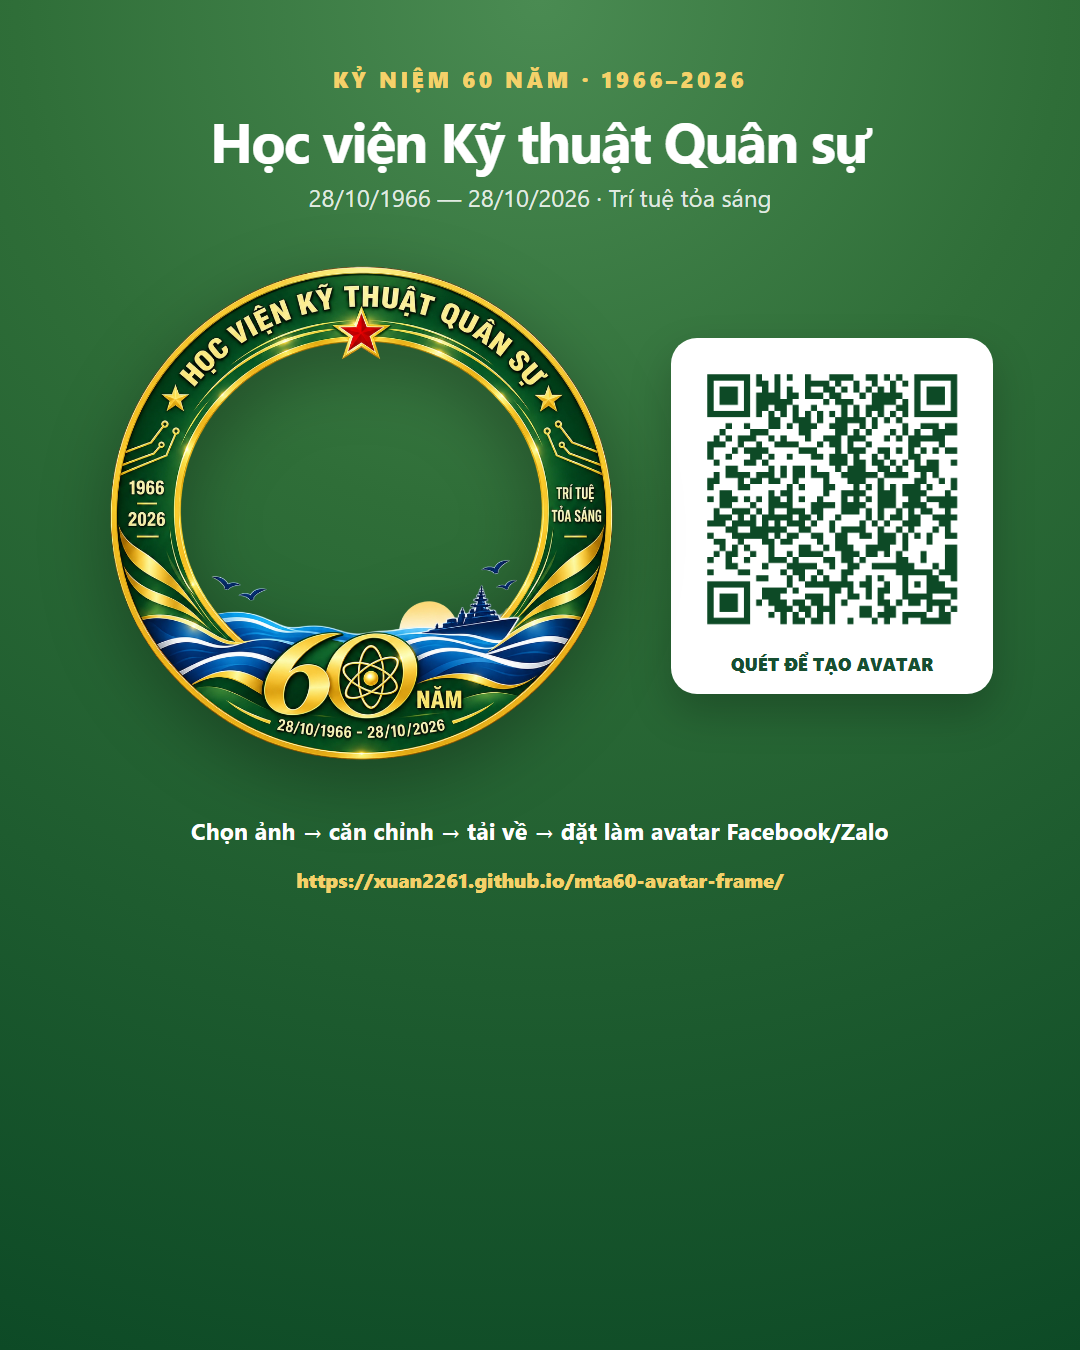
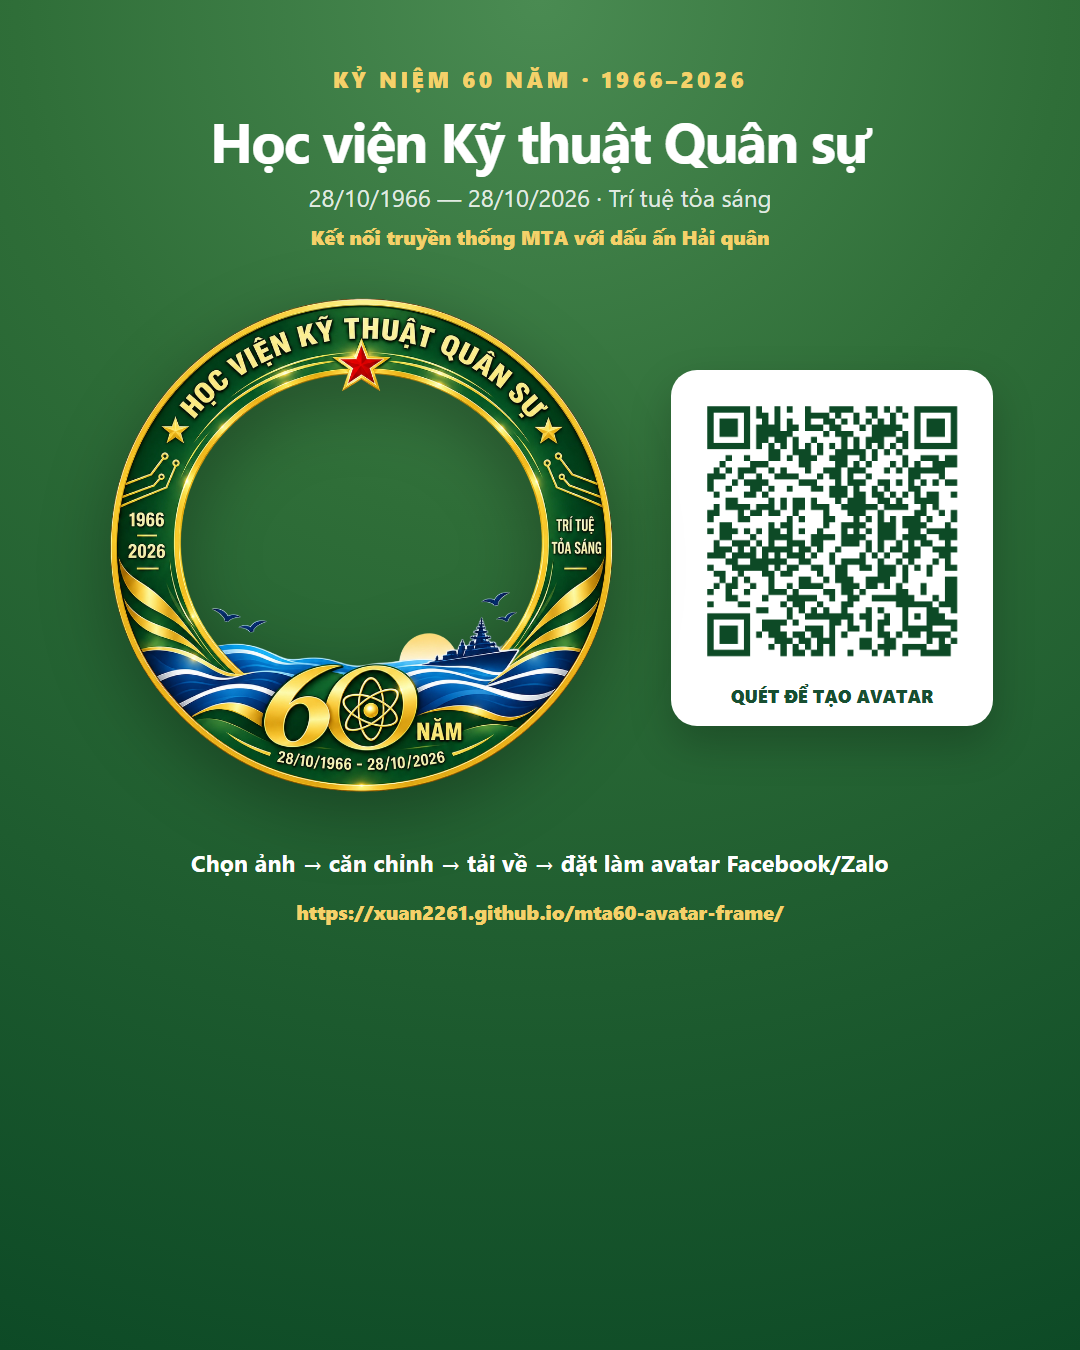
Harden social sharing for v1.2 stable

Changed region(s): [[0.0917, 0.1556, 0.825, 0.6844], [0.6111, 0.2489, 0.9167, 0.56]]

diff --git a/index.html b/index.html
@@ -13,7 +13,8 @@
 <meta property="og:url" content="https://xuan2261.github.io/mta60-avatar-frame/" />
 <meta property="og:site_name" content="Khung ảnh MTA 60 năm" />
 <meta property="og:locale" content="vi_VN" />
-<meta property="og:image" content="https://xuan2261.github.io/mta60-avatar-frame/og-image-v1.png" />
+<meta property="og:image" content="https://xuan2261.github.io/mta60-avatar-frame/og-image-v2.png" />
+<meta property="og:image:secure_url" content="https://xuan2261.github.io/mta60-avatar-frame/og-image-v2.png" />
 <meta property="og:image:type" content="image/png" />
 <meta property="og:image:width" content="1200" />
 <meta property="og:image:height" content="630" />
@@ -21,7 +22,8 @@
 <meta name="twitter:card" content="summary_large_image" />
 <meta name="twitter:title" content="Khung ảnh MTA 60 năm – kết nối truyền thống MTA với dấu ấn Hải quân" />
 <meta name="twitter:description" content="Tạo ảnh đại diện kỷ niệm 60 năm Học viện Kỹ thuật Quân sự." />
-<meta name="twitter:image" content="https://xuan2261.github.io/mta60-avatar-frame/og-image-v1.png" />
+<meta name="twitter:image" content="https://xuan2261.github.io/mta60-avatar-frame/og-image-v2.png" />
+<meta name="twitter:image:alt" content="Khung ảnh đại diện cộng đồng kỷ niệm 60 năm Học viện Kỹ thuật Quân sự, kết nối truyền thống MTA với dấu ấn Hải quân" />
 <title>Khung ảnh MTA 60 năm – kết nối truyền thống MTA với dấu ấn Hải quân</title>
 <style>
   :root{--green:#397d43;--green2:#2f6e38;--deep:#0d4a26;--gold:#d8b54a;--navy:#123d6b;--ink:#142017;--muted:#5d675f;--paper:#f4f8f4;--line:#dce7de;--shadow:0 16px 42px rgba(13,74,38,.12)}
@@ -71,6 +73,7 @@
   .share{background:#eef3f8;color:#163d66;border:1px solid #d5e0ec}
   .copy-invite{background:#f3f7ed;color:#345218;border:1px solid #dce8ca}
   .poster-share{background:#edf6ee;color:var(--deep);border:1px solid #cfe1d2}
+  .avatar-share{background:#163d66;color:#fff;border:1px solid #123452}
   .share-assets{display:flex;justify-content:center;gap:8px;flex-wrap:wrap}
   .share-assets a{display:inline-flex;align-items:center;justify-content:center;min-height:40px;padding:8px 12px;border-radius:12px;background:#fff;color:var(--deep);border:1px solid #dce6dd;font-size:12px;font-weight:800;text-decoration:none}
   .share-assets a:hover{background:#f5f8f5}
@@ -168,7 +171,9 @@
         <button class="primary" id="downloadJpg" type="button">Tải JPG dùng ngay</button>
         <button class="gold" id="downloadPng" type="button">Tải PNG nền trong suốt</button>
       </div>
+      <button class="avatar-share" id="shareAvatarBtn" type="button">Chia sẻ ảnh avatar đã tạo</button>
       <div class="small">JPG có nền trắng. PNG có nền trong suốt; một số trình xem có thể hiển thị vùng trong suốt thành màu đen.</div>
+      <div class="small"><b>Mẹo trên điện thoại:</b> nếu trình duyệt bên trong Facebook/Zalo không lưu hoặc chia sẻ ảnh được, hãy mở liên kết bằng Chrome/Safari rồi thử lại.</div>
       <button class="share" id="shareBtn" type="button">Chia sẻ trang tạo khung</button>
       <button class="poster-share" id="sharePosterBtn" type="button">Chia sẻ poster</button>
       <div class="invite-box">
@@ -286,6 +291,12 @@ safePreviewEl.addEventListener('change',()=>stage.classList.toggle('safe-on',saf
 function canvasBlob(type,quality){
   return new Promise((resolve,reject)=>canvas.toBlob(blob=>blob?resolve(blob):reject(new Error('Không thể tạo tệp ảnh.')),type,quality));
 }
+function dataUrlToFile(dataUrl,fileName){
+  const [head,data]=dataUrl.split(',');
+  const mime=head.match(/data:([^;]+)/)?.[1]||'image/jpeg';
+  const bytes=Uint8Array.from(atob(data),c=>c.charCodeAt(0));
+  return new File([bytes],fileName,{type:mime});
+}
 async function download(type){
   if(!photo){setStatus('Hãy chọn ảnh trước.');photoInput.focus();return}
   const isJpg=type==='image/jpeg';
@@ -307,6 +318,24 @@ async function download(type){
 }
 document.getElementById('downloadPng').onclick=()=>download('image/png');
 document.getElementById('downloadJpg').onclick=()=>download('image/jpeg');
+document.getElementById('shareAvatarBtn').onclick=async()=>{
+  if(!photo){setStatus('Hãy chọn ảnh trước.');photoInput.focus();return}
+  try{
+    render(true);
+    const file=dataUrlToFile(canvas.toDataURL('image/jpeg',.94),'MTA60-HaiQuan-avatar.jpg');
+    render(false);
+    if(navigator.share&&navigator.canShare?.({files:[file]})){
+      await navigator.share({files:[file],title:'Ảnh đại diện MTA 60 năm',text:'Kết nối truyền thống MTA với dấu ấn Hải quân.'});
+      setStatus('Đã mở bảng chia sẻ ảnh avatar.');
+    }else{
+      await download('image/jpeg');
+      setStatus('Trình duyệt chưa hỗ trợ chia sẻ ảnh trực tiếp; đã tạo JPG để bạn sử dụng.');
+    }
+  }catch(e){
+    render(false);
+    if(e?.name!=='AbortError')setStatus('Không thể chia sẻ ảnh trực tiếp. Hãy tải JPG hoặc mở bằng Chrome/Safari.');
+  }
+};
 document.getElementById('shareBtn').onclick=async()=>{
   const data={title:'Khung ảnh MTA 60 năm – kết nối truyền thống MTA với dấu ấn Hải quân',text:'Tạo ảnh đại diện kỷ niệm 60 năm Học viện Kỹ thuật Quân sự.',url:PUBLIC_URL};
   try{if(navigator.share){await navigator.share(data);setStatus('Đã mở bảng chia sẻ.')}else if(navigator.clipboard&&location.protocol==='https:'){await navigator.clipboard.writeText(PUBLIC_URL);setStatus('Đã sao chép liên kết.')}else{window.prompt('Sao chép liên kết này:',PUBLIC_URL)}}catch(e){if(e?.name!=='AbortError')setStatus('Không thể chia sẻ tự động. Hãy sao chép địa chỉ trang.')}
@@ -328,9 +357,9 @@ document.getElementById('sharePosterBtn').onclick=async()=>{
   }catch(e){if(e?.name!=='AbortError')setStatus('Không thể chia sẻ poster tự động. Hãy tải poster bên dưới.')}
 };
 const INVITES={
-  staff:'Kính mời các thầy cô, cán bộ và giảng viên cùng hưởng ứng kỷ niệm 60 năm Học viện Kỹ thuật Quân sự bằng mẫu khung ảnh đại diện cộng đồng:\n'+PUBLIC_URL+'\nChọn ảnh → căn chỉnh → tải về → đặt làm avatar Facebook/Zalo.',
-  alumni:'Kính mời các anh chị cựu học viên cùng lan tỏa dấu ấn 60 năm Học viện Kỹ thuật Quân sự với mẫu khung ảnh đại diện cộng đồng:\n'+PUBLIC_URL+'\nChọn ảnh → căn chỉnh → tải về → đặt làm avatar Facebook/Zalo.',
-  student:'Mời các bạn học viên, sinh viên cùng hưởng ứng kỷ niệm 60 năm Học viện Kỹ thuật Quân sự với mẫu khung ảnh đại diện cộng đồng:\n'+PUBLIC_URL+'\nChọn ảnh → căn chỉnh → tải về → đặt làm avatar Facebook/Zalo.'
+  staff:'Kính mời các thầy cô, cán bộ và giảng viên cùng hưởng ứng kỷ niệm 60 năm Học viện Kỹ thuật Quân sự với mẫu khung cộng đồng kết nối truyền thống MTA với dấu ấn Hải quân:\n'+PUBLIC_URL+'\nChọn ảnh → căn chỉnh → tải về → đặt làm avatar Facebook/Zalo.',
+  alumni:'Kính mời các anh chị cựu học viên cùng lan tỏa dấu ấn 60 năm Học viện Kỹ thuật Quân sự với mẫu khung cộng đồng kết nối truyền thống MTA với dấu ấn Hải quân:\n'+PUBLIC_URL+'\nChọn ảnh → căn chỉnh → tải về → đặt làm avatar Facebook/Zalo.',
+  student:'Mời các bạn học viên, sinh viên cùng hưởng ứng kỷ niệm 60 năm Học viện Kỹ thuật Quân sự với mẫu khung cộng đồng kết nối truyền thống MTA với dấu ấn Hải quân:\n'+PUBLIC_URL+'\nChọn ảnh → căn chỉnh → tải về → đặt làm avatar Facebook/Zalo.'
 };
 document.getElementById('copyInviteBtn').onclick=async()=>{
   const invite=INVITES[inviteTemplateEl.value]||INVITES.staff;

diff --git a/README.md b/README.md
@@ -30,6 +30,12 @@ Công cụ tạo ảnh đại diện cộng đồng nhân dịp kỷ niệm 60 n
 - Chuẩn hóa thông điệp công khai theo hướng trang trọng hơn: “kết nối truyền thống MTA với dấu ấn Hải quân”.
 - Đồng bộ nội dung trên website, metadata, README và GitHub repository description.
 
+## Release 1.2 stable
+- Đồng bộ social preview, poster và các mẫu lời mời với thông điệp “kết nối truyền thống MTA với dấu ấn Hải quân”.
+- Thêm chia sẻ trực tiếp ảnh avatar bằng Web Share file khi thiết bị hỗ trợ; nếu không hỗ trợ thì tự tạo JPG để dùng.
+- Bổ sung hướng dẫn dự phòng cho trình duyệt bên trong Facebook/Zalo: mở bằng Chrome/Safari nếu thao tác lưu/chia sẻ bị giới hạn.
+- Khóa regression cho các luồng mobile/share trước khi phát hành rộng.
+
 ## Quyền riêng tư
 Ảnh cá nhân được xử lý ngay trong trình duyệt bằng Canvas; trang tĩnh không tải ảnh người dùng lên máy chủ.
 
